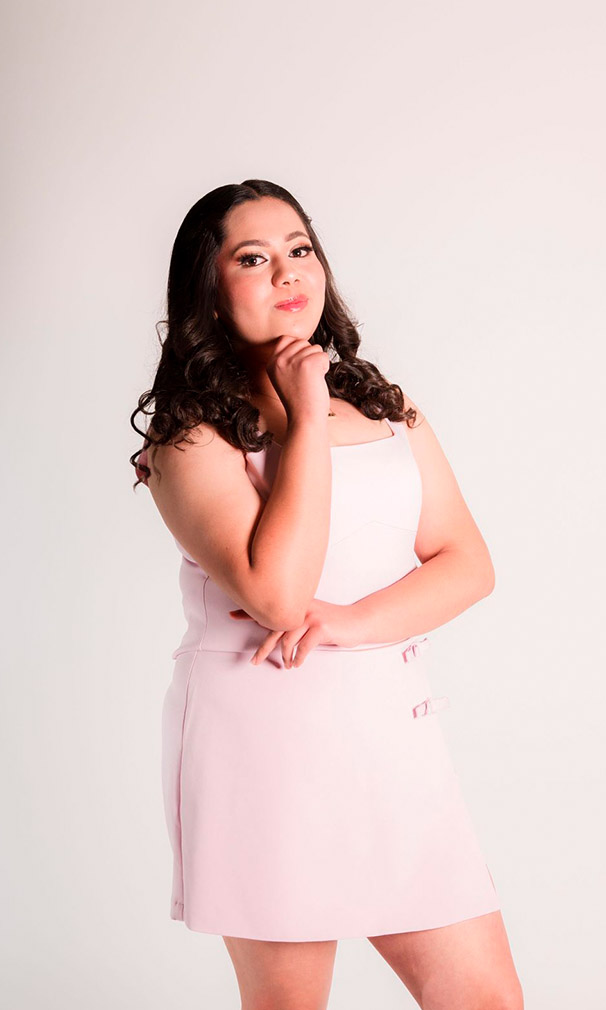
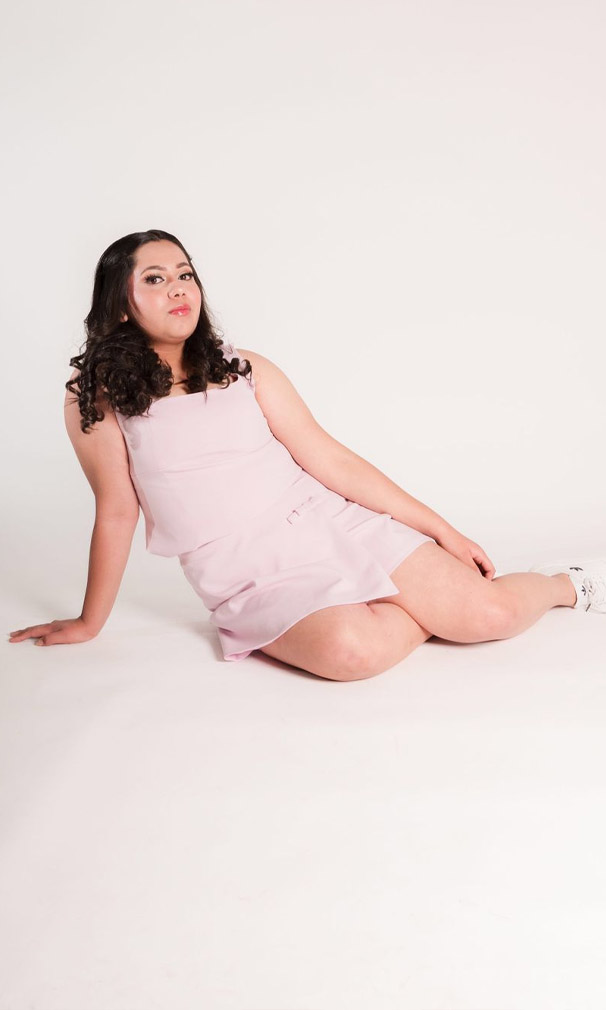
g
g

Changed region(s): [[0.0, 0.1535, 0.9802, 1.0], [0.5941, 0.8901, 0.8911, 1.0], [0.0, 0.0, 0.1188, 0.3069]]

diff --git a/index.html b/index.html
@@ -275,7 +275,7 @@
                     <h1 class="mt_10 font_charm fspx_20 line_height_20 color_black">Sábado <br>2 de Mayo del 2026</h1>
                     
                     <img src="reloj.png" class="wpx_50 filtro_golden" />
-                    <h1 class="mt_10 font_charm fspx_20 line_height_20 color_black">5:30 PM</h1>
+                    <h1 class="mt_10 font_charm fspx_20 line_height_20 color_black">4:00 PM</h1>
 
                     <img src="location.png" class="wpx_50 filtro_golden" />
                     <h1 class="mt_10 font_charm fspx_20 line_height_20 color_black">Parroquia de la Purísima Concepción</h1>
@@ -298,7 +298,7 @@
                     <h1 class="mt_10 font_charm fspx_20 line_height_20 color_black">Sábado <br>2 de Mayo del 2026</h1>
                     
                     <img src="reloj.png" class="wpx_50 filtro_golden" />
-                    <h1 class="mt_10 font_charm fspx_20 line_height_20 color_black">8:00 PM</h1>
+                    <h1 class="mt_10 font_charm fspx_20 line_height_20 color_black">6:00 PM</h1>
 
                     <img src="location.png" class="wpx_50 filtro_golden" />
                     <h1 class="mt_10 font_charm fspx_20 line_height_20 color_black">CENTRO SOCIAL DE USOS MULTIPLES DE DR. ARROYO</h1>
@@ -319,7 +319,7 @@
 
             </center>
 
-            <center class="p_20 pst_relative overflow_hidden" bg_cover" style="background-image: url('fonde1.jpg'); border-radius: 40px;">
+            <!--<center class="p_20 pst_relative overflow_hidden" bg_cover" style="background-image: url('fonde1.jpg'); border-radius: 40px;">
 
                 <div class="pst_absolute top_5 left_5   zdex_2  rotate_0 ">
                     <img class="pst_absolute wpx_130 zdex_2" src="greca1.png">
@@ -345,7 +345,7 @@
                     <h1 class="font_paris fspx_40 line_height_30 color_golden">Código de vestimenta</h1>
 
                     <h1 class="font_charm fspx_20 line_height_20 color_black m_0">Formal</h1>
-                    <h1 class="font_charm fspx_20 line_height_20 color_black m_0">Color "dorado" reservado para la quinceañera</h1>
+                    <h1 class="font_charm fspx_20 line_height_20 color_black m_0">Color "rosa" reservado para la quinceañera</h1>
 
         
                     <img src="code.png" class="wpx_120" />
@@ -353,7 +353,7 @@
 
                 </div>
 
-            </center>
+            </center>-->
 
 
         </div>
@@ -392,7 +392,7 @@
                 <!--<a href="https://api.whatsapp.com/send?phone=5514000054&text=Hola,%20confirmo%20mi%20asistencia%20a%20tu%20evento" 
                 class="mt_20 font_charm fspx_20 color_white no_link d_block p_10 max_wpx_200" style="border: #ffffff 2px solid">Confirmar a mamá</a>-->
 
-
+                
                 
        
             </center>
